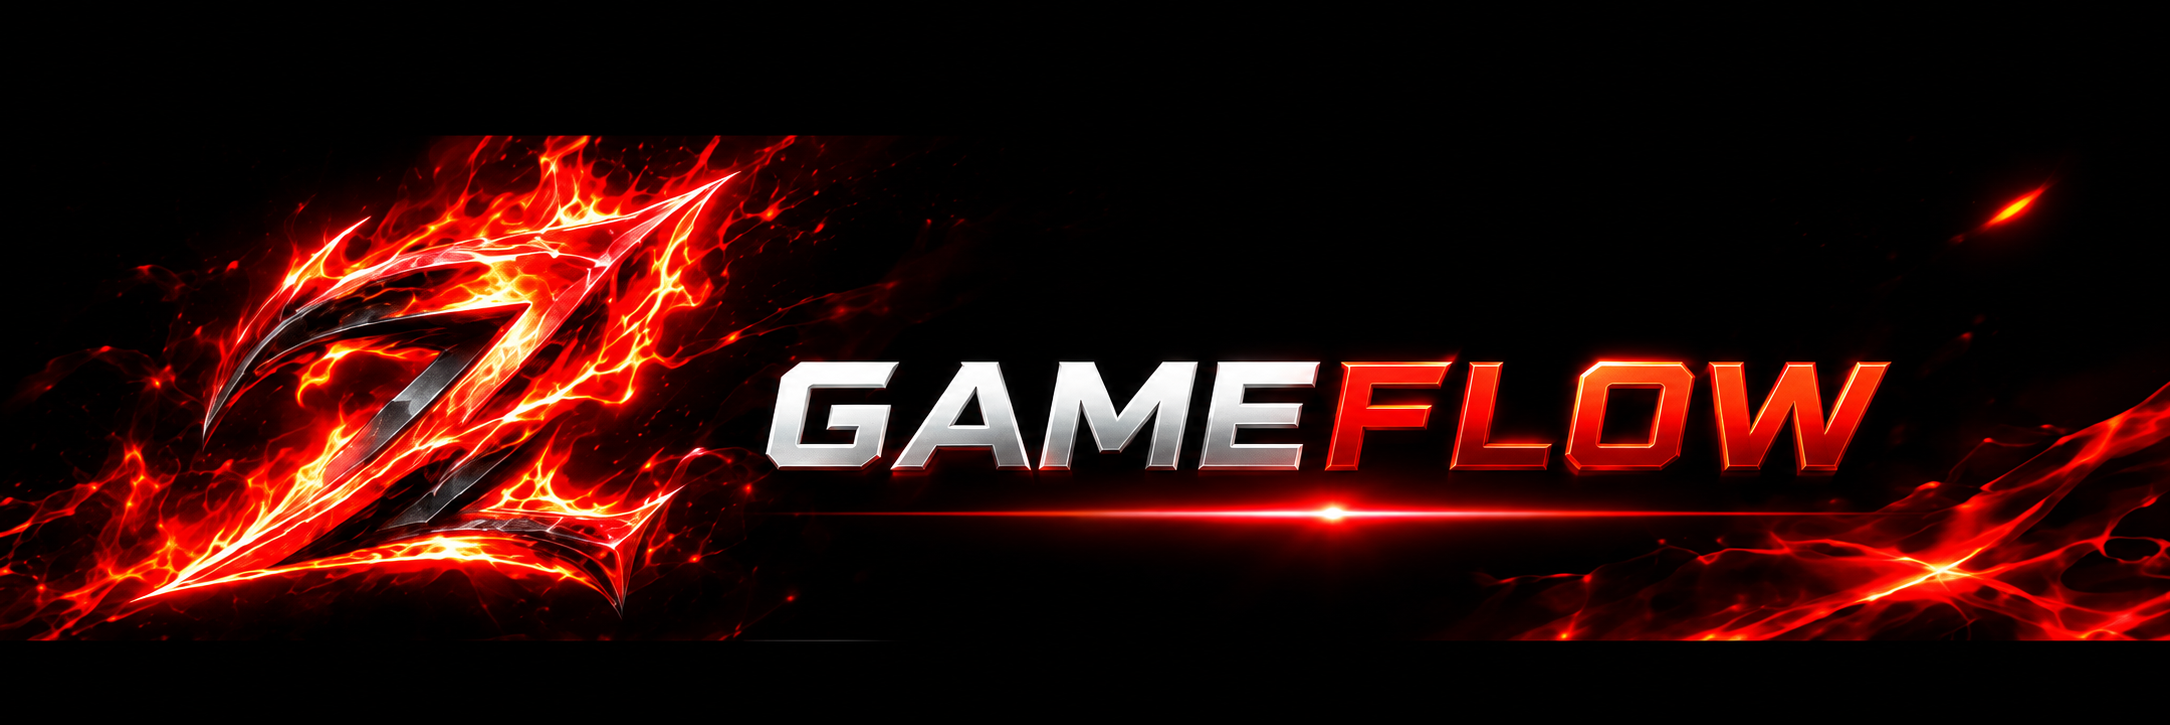
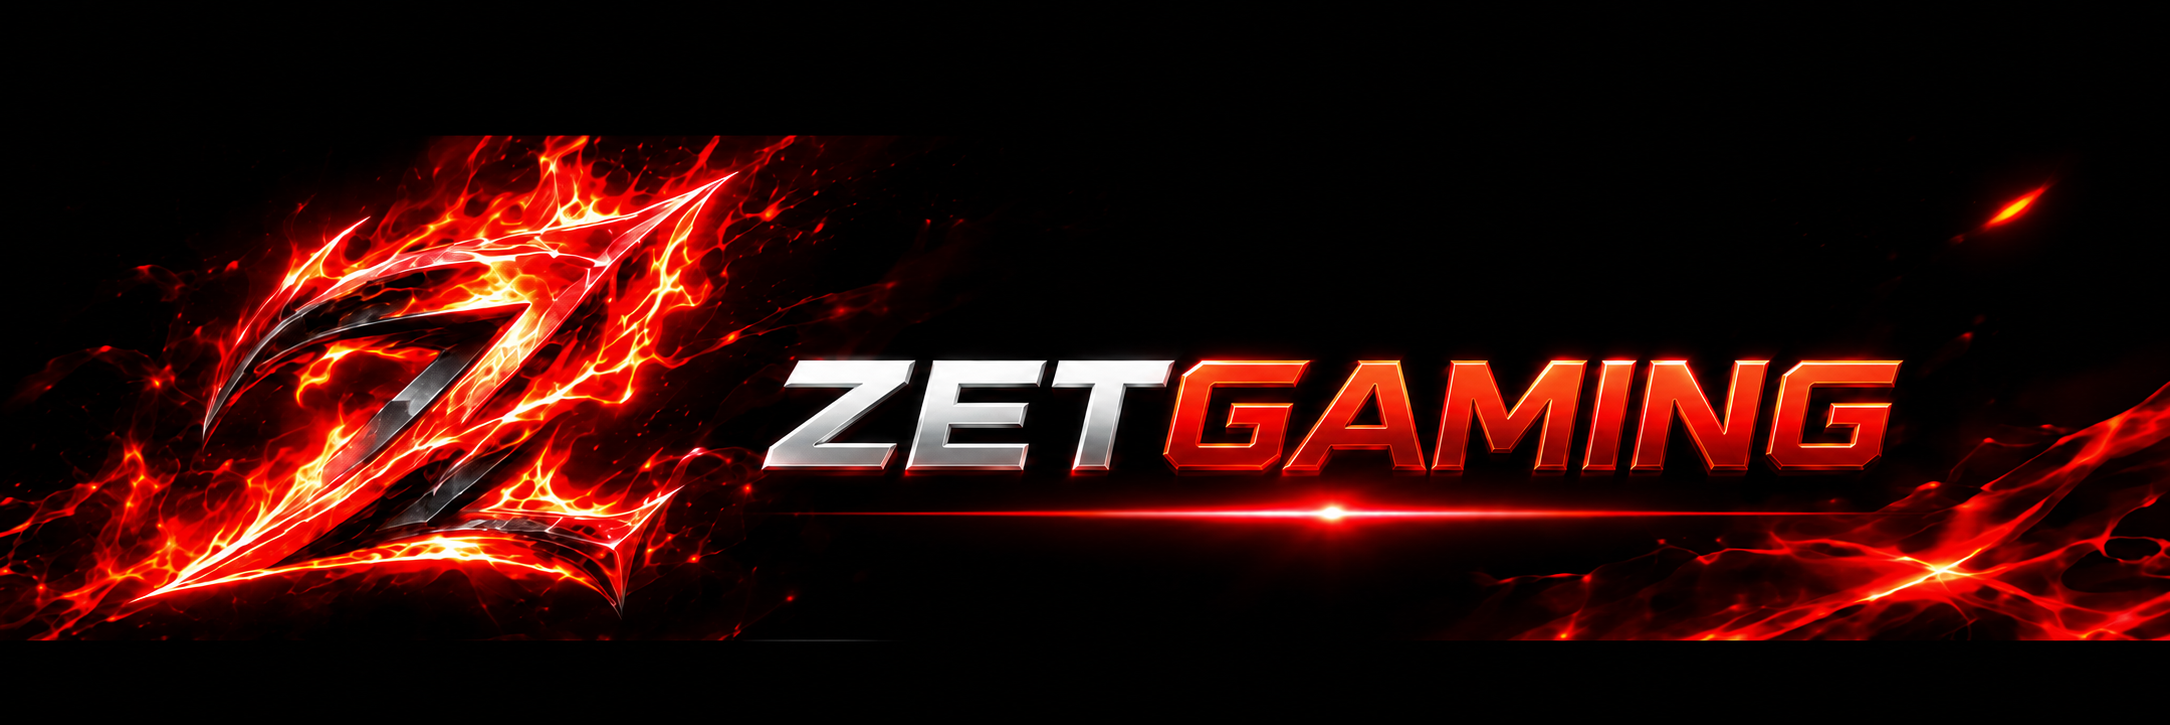
Rebrand storefront to ZetGaming

Changed region(s): [[0.0618, 0.1821, 0.3705, 0.8497], [0.3088, 0.4855, 0.8954, 0.7283], [0.988, 0.7283, 1.0, 0.7586]]

diff --git a/public/index.html b/public/index.html
@@ -4,22 +4,22 @@
   <meta charset="utf-8">
   <meta name="viewport" content="width=device-width,initial-scale=1">
   <meta name="theme-color" content="#090b10">
-  <meta name="description" content="Chọn game, xem giá và tạo đơn nạp game rõ ràng tại GameFlow.">
-  <title>GameFlow · Nạp game dễ dàng</title>
+  <meta name="description" content="Chọn game, xem giá và tạo đơn nạp game rõ ràng tại ZetGaming.">
+  <title>ZetGaming · Nạp game dễ dàng</title>
   <link rel="stylesheet" href="/styles.css">
 </head>
 <body>
   <div class="topline"><div class="wrap"><span><i class="live-dot"></i> Đang nhận đơn</span><span>Giá hiển thị trước khi đặt · Theo dõi từng đơn</span></div></div>
   <header class="site-header"><div class="wrap header-inner">
-    <a class="brand" href="/" aria-label="GameFlow, về trang chủ"><span class="brand-mark">G<span>✦</span></span><span>GAME<span class="brand-accent">FLOW</span></span></a>
+    <a class="brand" href="/" aria-label="ZetGaming, về trang chủ"><span class="brand-mark">Z<span>✦</span></span><span>ZET<span class="brand-accent">GAMING</span></span></a>
     <nav aria-label="Điều hướng chính"><a href="#games">Nạp game</a><a href="#orders">Đơn của tôi</a><a href="#how">Cách đặt đơn</a></nav>
     <button id="loginBtn" class="account-btn" type="button">Đăng nhập <span>↗</span></button>
   </div></header>
   <main>
     <section class="hero wrap" aria-labelledby="heroTitle">
-      <div class="mobile-banner" aria-hidden="true"><span>NẠP GAME LOGIN</span><strong>GAMEFLOW</strong><div class="mobile-card-icon"><span>✦</span></div><div class="mobile-orbit-badges"><i>✦ Giá rẻ</i><i>⚡ Nhanh chóng</i><i>✓ Uy tín</i></div></div>
+      <div class="mobile-banner" aria-hidden="true"><span>NẠP GAME LOGIN</span><strong>ZETGAMING</strong><div class="mobile-card-icon"><span>✦</span></div><div class="mobile-orbit-badges"><i>✦ Giá rẻ</i><i>⚡ Nhanh chóng</i><i>✓ Uy tín</i></div></div>
       <div class="hero-copy"><div class="eyebrow"><span>✦</span> NẠP GAME LOGIN</div><h1 id="heroTitle">Nạp game<br><em>nhanh, giá tốt.</em></h1><p>UID · LOGIN · CTV XỬ LÝ NHANH</p><div class="hero-actions"><a class="primary-btn" href="#games">Nạp ngay <span>↗</span></a><a class="text-link" href="#orders">Đơn của tôi <span>→</span></a></div></div>
-      <div class="hero-visual" aria-label="GameFlow topup card"><div class="hero-glow"></div><div class="visual-outline"></div><div class="orbit-ring" aria-hidden="true"><span class="orbit-badge orbit-one">✦ Giá rẻ</span><span class="orbit-badge orbit-two">⚡ Nhanh chóng</span><span class="orbit-badge orbit-three">✓ Uy tín</span></div><div class="visual-card"><div class="visual-card-top">GAMEFLOW <span>✦ TOPUP</span></div><div class="visual-card-symbol">✦</div><div class="visual-card-bottom"><strong>READY<br>TO PLAY</strong><small>CHOOSE • PAY • PLAY</small></div></div></div>
+      <div class="hero-visual" aria-label="ZetGaming topup card"><div class="hero-glow"></div><div class="visual-outline"></div><div class="orbit-ring" aria-hidden="true"><span class="orbit-badge orbit-one">✦ Giá rẻ</span><span class="orbit-badge orbit-two">⚡ Nhanh chóng</span><span class="orbit-badge orbit-three">✓ Uy tín</span></div><div class="visual-card"><div class="visual-card-top">ZETGAMING <span>✦ TOPUP</span></div><div class="visual-card-symbol">✦</div><div class="visual-card-bottom"><strong>READY<br>TO PLAY</strong><small>CHOOSE • PAY • PLAY</small></div></div></div>
     </section>
     <div class="benefits"><div class="wrap"><span><b>◇</b> Xem giá trước khi đặt</span><span><b>⌁</b> Chọn ví hoặc thanh toán trực tiếp</span><span><b>◉</b> Theo dõi trạng thái đơn</span></div></div>
     <section id="games" class="games-section wrap" aria-labelledby="gamesTitle"><div class="section-head"><div><div class="section-kicker">KHO GAME</div><h2 id="gamesTitle">Bạn muốn nạp game nào?</h2><p>Chọn game để xem gói và giá hiện có.</p></div><label class="search-box"><span aria-hidden="true">⌕</span><span class="sr-only">Tìm game</span><input id="search" type="search" placeholder="Tìm tên game…" autocomplete="off"></label></div><div id="gameGrid" class="game-grid" aria-live="polite"><div class="loading-card" aria-busy="true">Đang tải danh sách game…</div></div></section>
